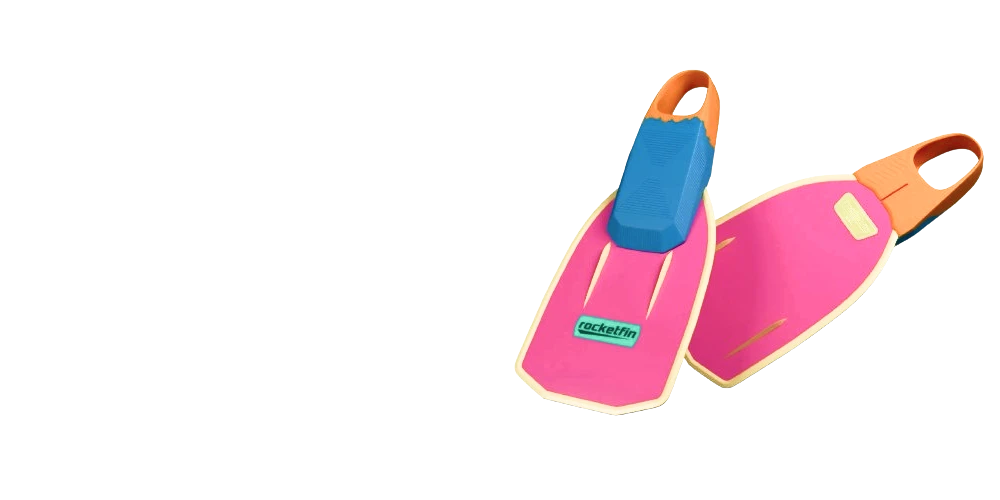
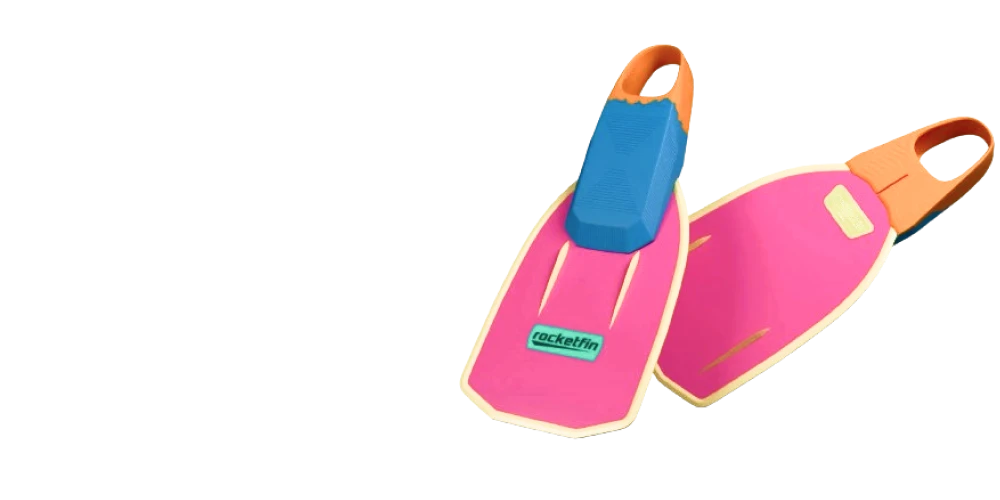
starting with Home view

Changed region(s): [[0.434, 0.09, 1.0, 0.9], [0.837, 0.54, 0.868, 0.6]]

diff --git a/src/Styles/Styles.css b/src/Styles/Styles.css
@@ -49,6 +49,8 @@ body { min-height: 100dvh; }
   /*frame*/
   /*colors*/
   /*interact*/
+  /*responsive-mobile*/
+  /*responsive-pc*/
 
 .Main {
   /*position*/
@@ -163,21 +165,42 @@ button[disabled] {
 
 /*HOME VIEW*/
 
+#goToOrder {
+  overflow: hidden;
+
+  max-height: 360px;
+}
+
 #goToOrder:hover {
-  > img {
+  > .ImgF {
     /*interact*/
-    scale: 1.06;
+    scale: 1.1;
+  }
+  > .ImgB {
+    /*interact*/
+    opacity: 0.1;
   }
 }
 
-#goToOrder > img {
+.ImgF {
   /*frame*/
-  margin: -30px -20px;
+  
   /*colors*/
   filter: drop-shadow(0 0 6px var(--button-InputOption-black));
 }
 
-#goToOrder > button {
+.ImgB {
+  /*position*/
+  position: absolute;
+  /*frame*/
+  border-radius: 30px;
+  margin: -10px -30px;
+  /*colors*/
+  filter: drop-shadow(0 0 6px var(--button-InputOption-black));
+  opacity: 0.5;
+}
+
+#goToOrder > .buttonLink  > button {
   /*position*/
   position: absolute;
   bottom: 30px;

diff --git a/src/Views/Home.jsx b/src/Views/Home.jsx
@@ -1,14 +1,20 @@
 // Home.jsx
 import img01 from '../Assets/img01.webp'
+import img02 from '../Assets/img02.webp'
+
+import { Link } from 'react-router-dom';
 
 function Home() {
 
   return (
     <>
       <article id='goToOrder'>
-        <img src={img01}/>
+        <img className='ImgB' src={img02}/>
+        <img className='ImgF' src={img01}/>
         <h1> Design your own fins </h1>
-        <button>Let's do it</button>
+        <Link className='buttonLink' to="/store">
+          <button>Let's do it</button>
+        </Link>
       </article>
       <article>
         <p>Blog section: New releases, next dates.</p>
